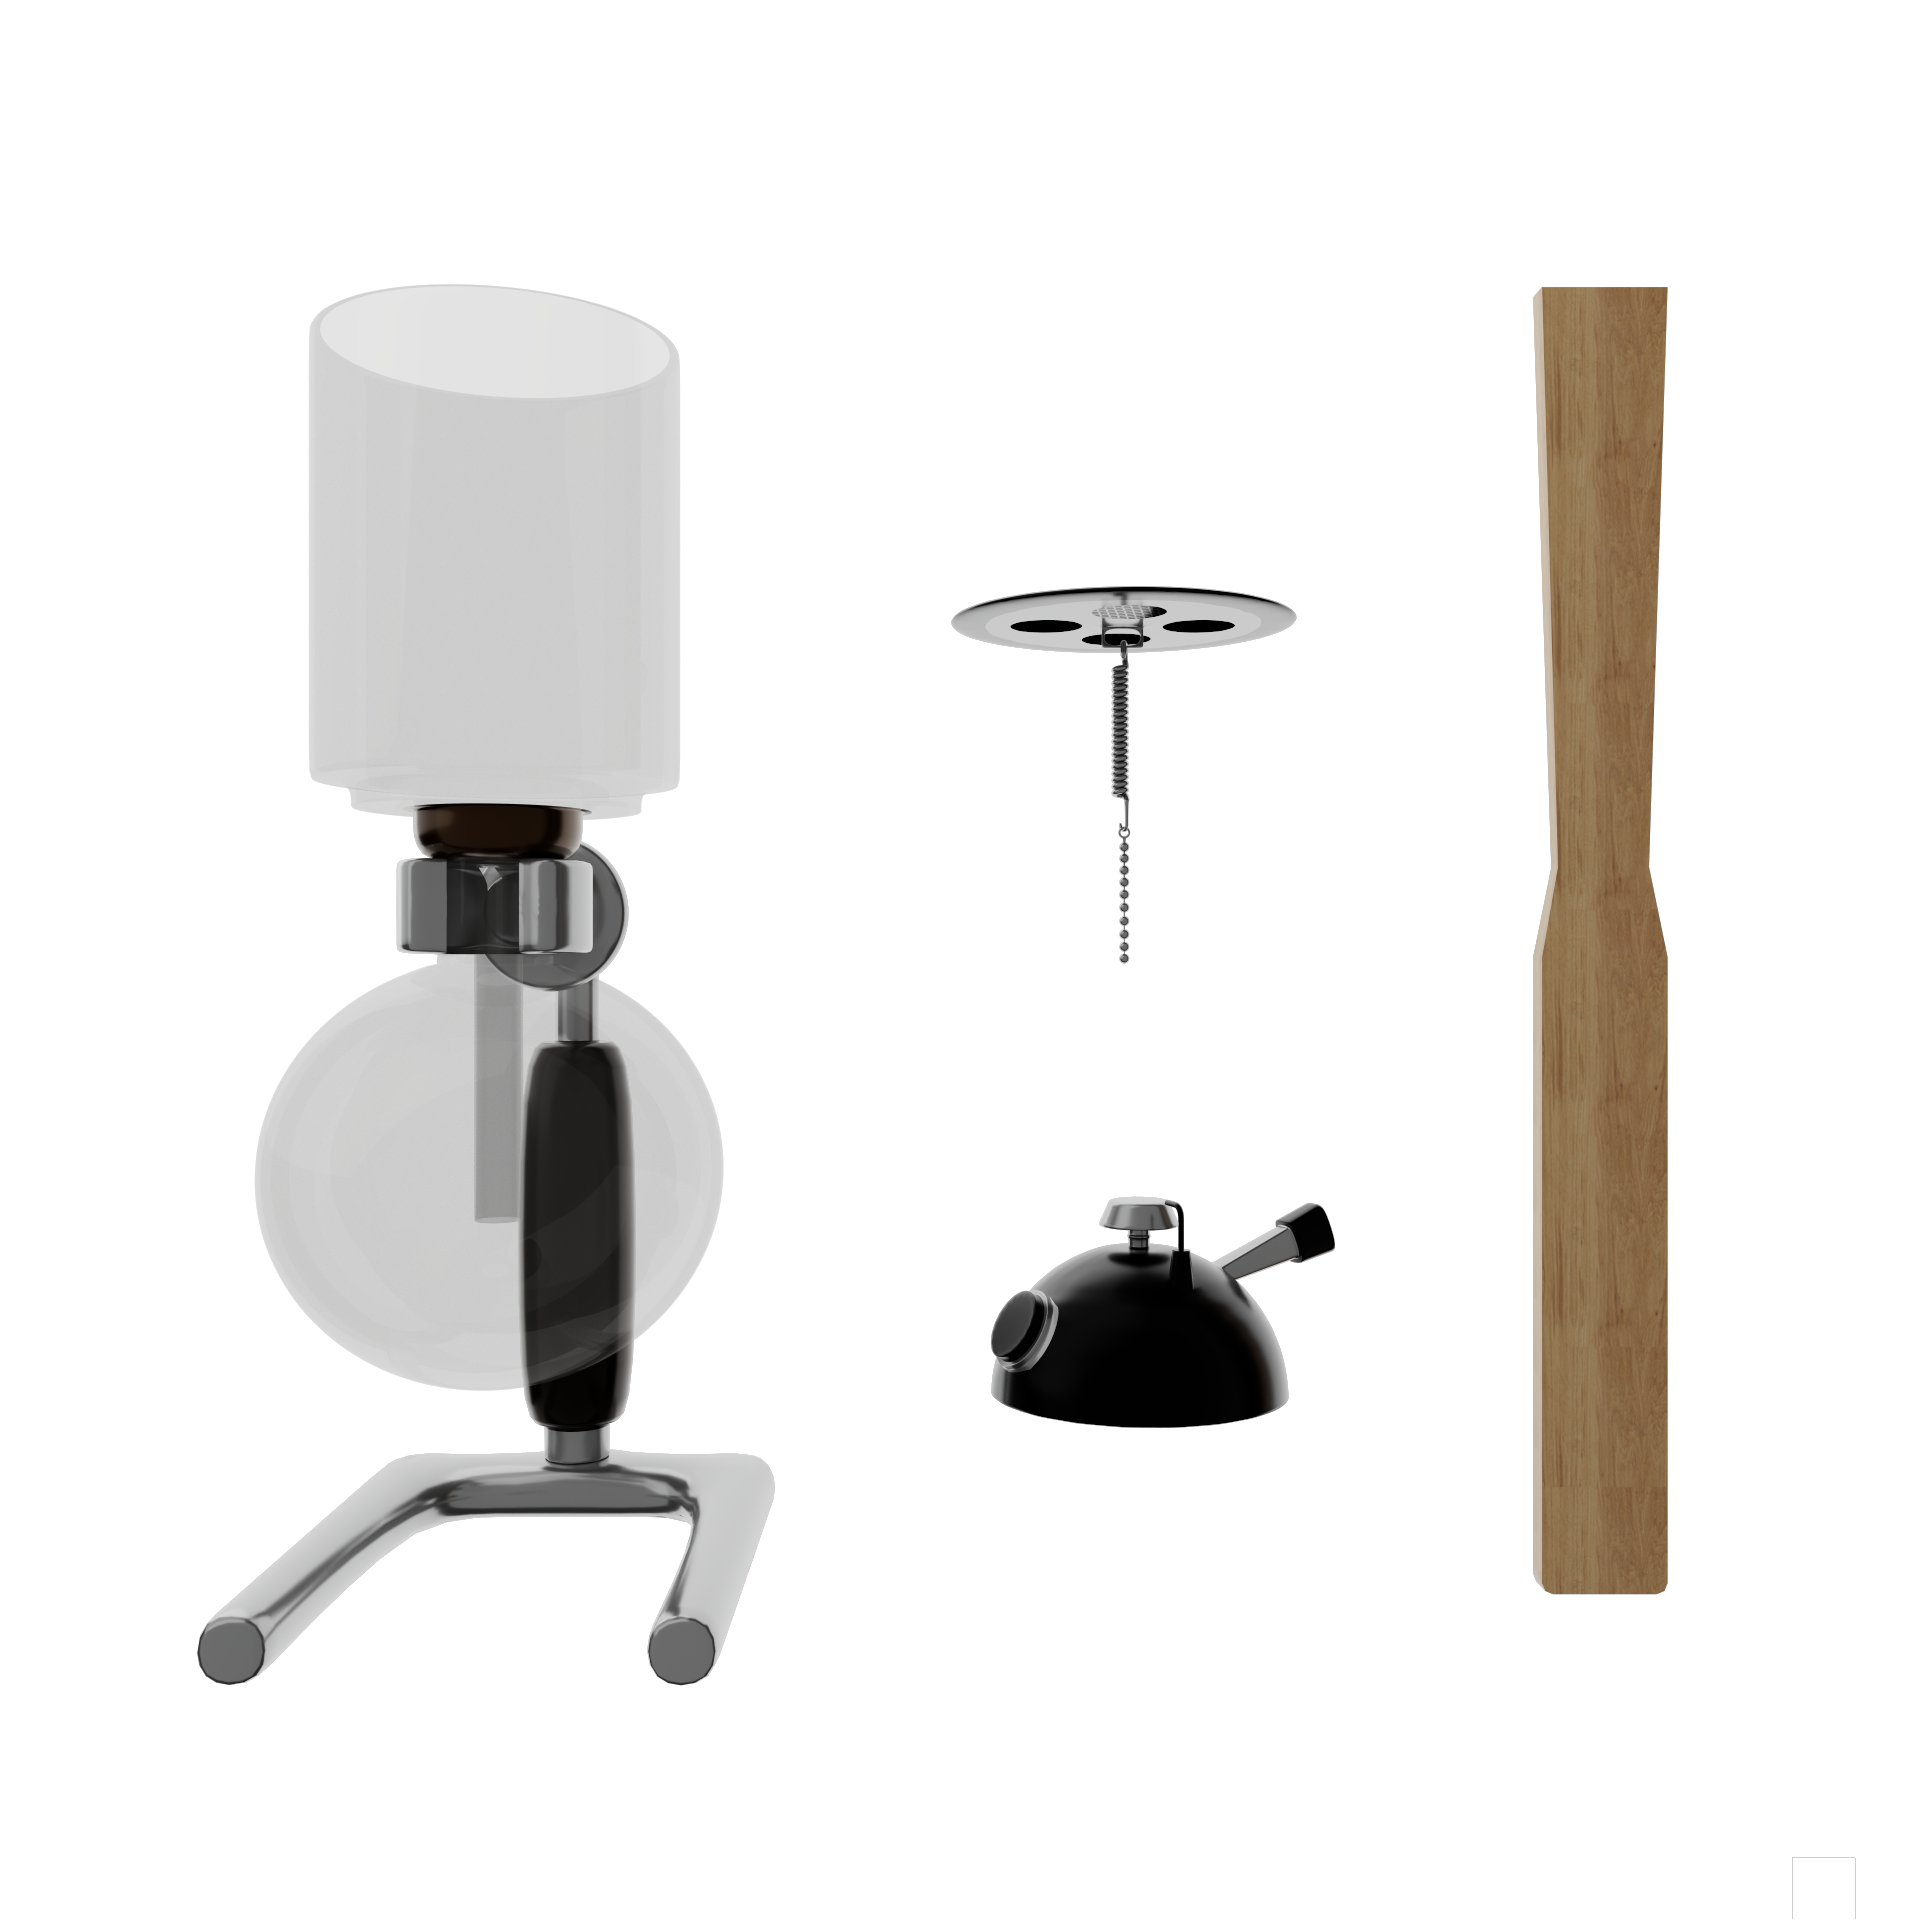
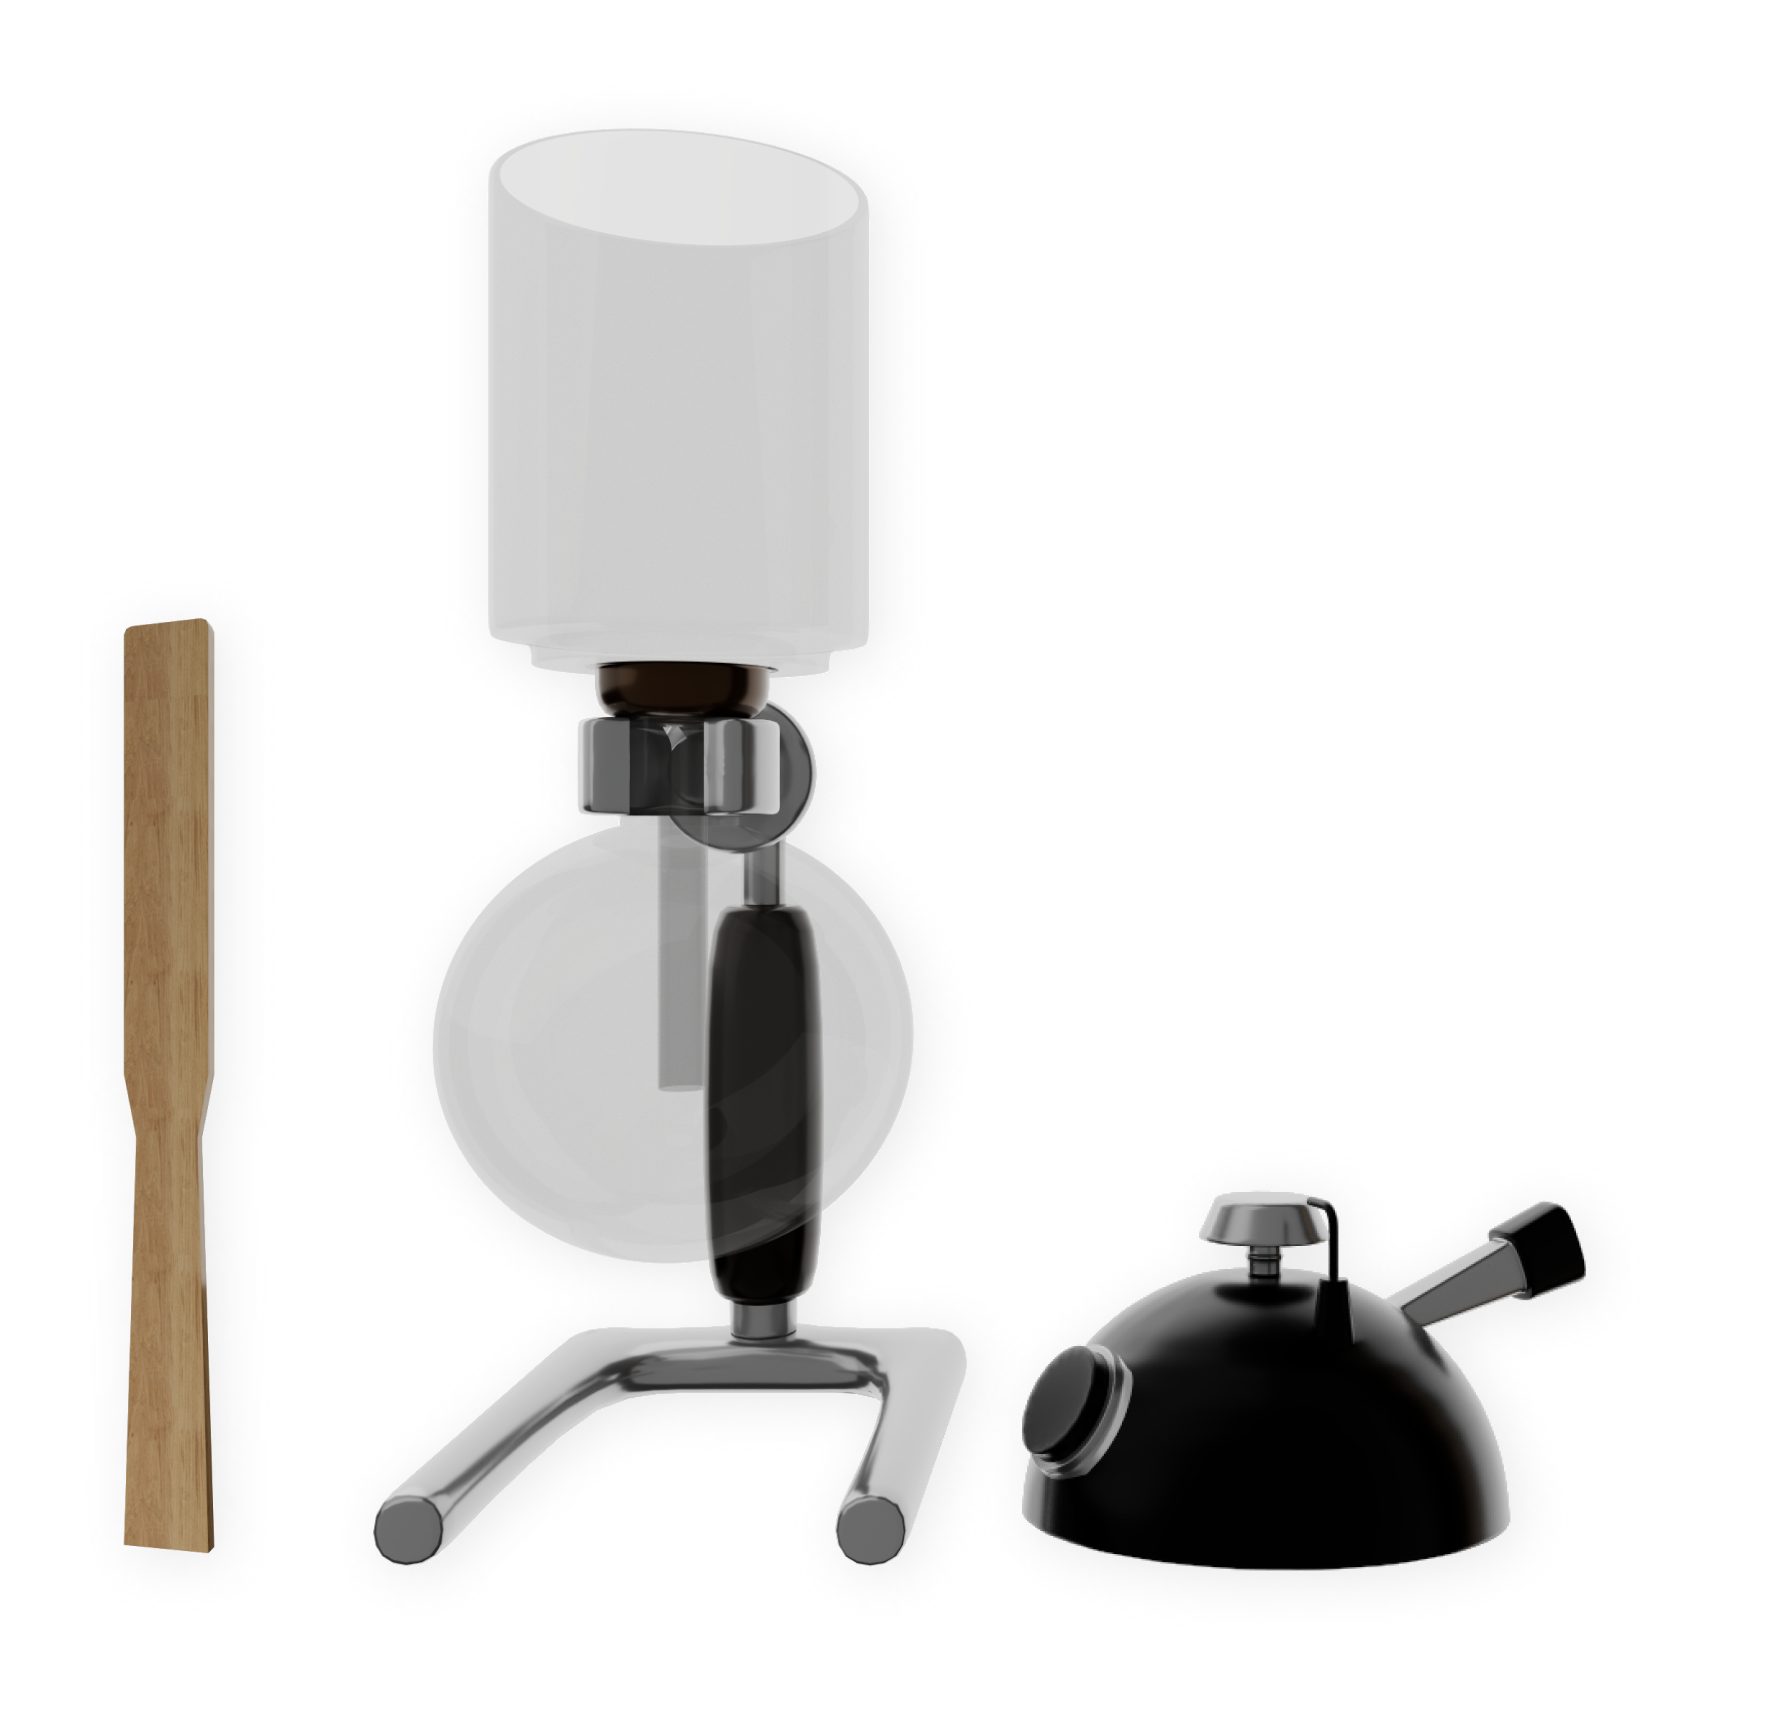
product page alignment

diff --git a/pages/products.tsx b/pages/products.tsx
@@ -1,21 +1,38 @@
 import { Product } from "@/components/product/product";
+import { FullButton } from "@/components/button/button";
+import Link from "next/link";
+import Image from "next/image";
 
 import set from "@/public/imgs/fullset.png";
 import machine from "@/public/imgs/siphon.png";
-import paddle from "@/public/imgs/paddle.png";
+import burner from "@/public/imgs/burner.png";
 import filter from "@/public/imgs/filter.png";
 
 export default function Products() {
   return (
     <div>
-      <Product
-        image={set}
-        alt="Outer Image"
-        link="/products/set"
-        stylingClasses1="bg-beige2 relative"
-        stylingClasses2="h-screen object-cover"
-        name="Siphon Set"
-      />
+      <div className="bg-beige2 relative h-screen object-cover overflow-hidden  flex items-center">
+        <Link href="/products/set">
+          <Image
+            src={set}
+            alt="Outer Image"
+            className="w-auto h-screen object-cover overflow-hidden relative left-[40vw]"
+          />
+        </Link>
+
+        <div className="absolute max-w-[40vw] pl-[10vw]">
+          <h2 className=" font-bold">
+            Siphon <br />
+            Set
+          </h2>
+          <FullButton
+            text="SHOP"
+            link="/products/set"
+            colour="bg-brown hover:bg-white"
+            textColour="text-white  hover:text-brown"
+          />
+        </div>
+      </div>
 
       <div className="sm:flex">
         <div className=" flex-1">
@@ -23,28 +40,30 @@ export default function Products() {
             image={machine}
             alt="Outer Image"
             link="/products/machine"
-            stylingClasses1="bg-beige1 relative object-cover"
-            stylingClasses2="w-full h-full object-cover"
+            stylingClasses1="bg-beige1 object-cover overflow-hidden relative"
+            stylingClasses2="w-full h-full object-cover overflow-hidden top-[50vh] drop-shadow-xl relative"
             name="Machine"
           />
         </div>
         <div className="flex-1 flex flex-col gap-0">
           <div className="flex-1">
             <Product
-              image={paddle}
-              alt="Outer Image"
-              link="/products/paddle"
-              stylingClasses1="w-full h-full bg-blue relative"
-              name="Paddle"
-            />
-          </div>
-          <div className="flex-1">
-            <Product
               image={filter}
               alt="Outer Image"
               link="/products/filter"
               stylingClasses1="w-full h-full bg-matcha relative"
+              stylingClasses2=" drop-shadow-xl"
               name="Filter"
+            />
+          </div>
+          <div className="flex-1">
+            <Product
+              image={burner}
+              alt="Outer Image"
+              link="/products/paddle"
+              stylingClasses1="w-full h-full bg-blue relative"
+              stylingClasses2=" drop-shadow-xl"
+              name="Paddle"
             />
           </div>
         </div>
